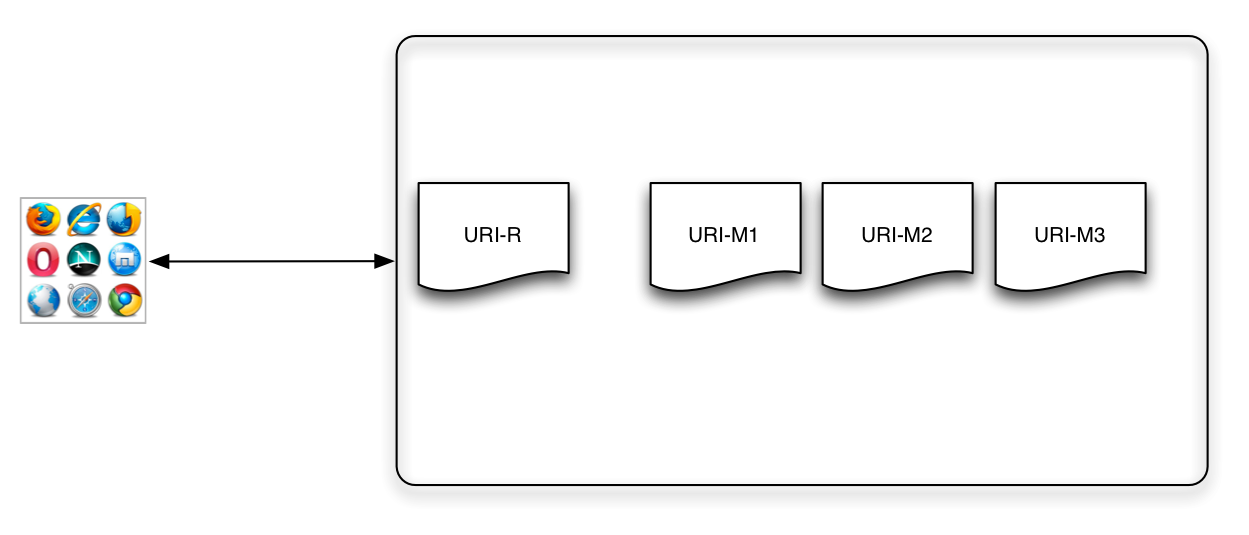
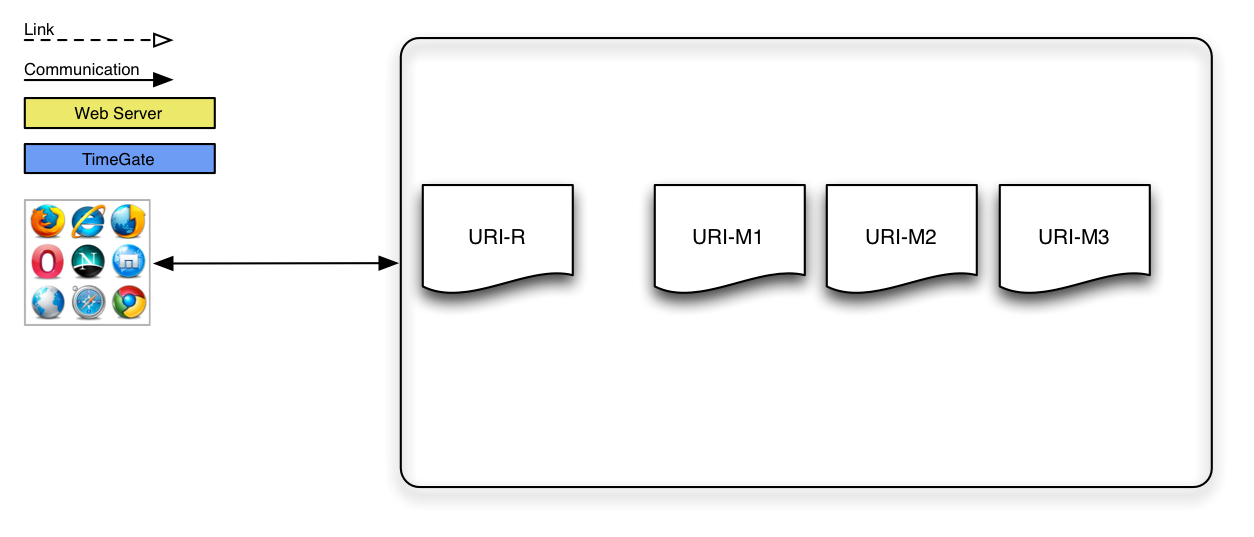
md and images update

diff --git a/README.md b/README.md
@@ -24,6 +24,9 @@ Using the previous example, and supposing a TimeGate is running at `http://examp
 
 And that's it! With the TimeGate, date time negotiation is now possible for this resource.
 
+## How it works
+Read the [big picture](https://github.com/mementoweb/timegate/wiki/The-Big-Picture) to understand how it works.
+
 ## Getting Started
 Start by [reading the guide](https://github.com/mementoweb/timegate/wiki/Getting-Started) for comprehensive information about TimeGate.
 
